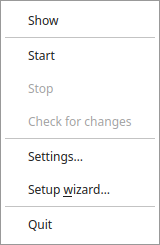
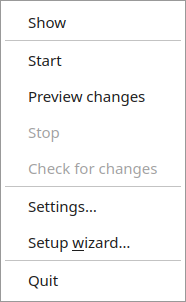
feat(ui): separate preview changes from the in-sync check
Two plan paths share the main window and nothing explained the difference:
the action-bar check compares inside a running sync (the client cannot plan
without a session) and is greyed out with the engine stopped, while Preview
changes ran a dry-run from a stopped app with no shortcut, no tooltip and the
same "Sync Preview" title a Start confirmation showed.

Preview changes now owns Ctrl+Shift+P and tip.preview_changes, repeated in the
Sync menu and the tray, and both menus show tooltips (QMenu hides them by
default). The check tooltip points at Preview changes while the engine is
stopped and keeps the short waiting text while a run is starting, so it never
advertises a greyed-out entry. The plan dialog picks its title by intent:
preview_summary.title_plan when the run will apply, preview_summary.title for
a preview or Simulation Mode.

Drops the unused preview.title key, adds three keys to the eleven locales,
retakes the stale tray screenshot and documents the session-bound check in the
user guide and the wiki. Guarded by test_main_window.py,
test_preview_summary_dialog.py, test_system_tray.py and test_locales.py.

Changed region(s): [[0.0312, 0.2857, 0.9688, 0.9714], [0.0312, 0.0571, 0.9688, 0.2571]]

diff --git a/hsync_desktop/main_window/ui.py b/hsync_desktop/main_window/ui.py
@@ -371,6 +371,11 @@ class UiBuildMixin:
             self._act_preview_changes.setText(tr("menu.sync.preview"))
             self._act_stop.setText(tr("menu.sync.stop"))
             self._act_check_changes.setText(tr("menu.sync.check_changes"))
+            # The menu shows these, so a language change must re-translate them
+            # like the labels above.
+            self._act_start.setToolTip(tr("tip.start"))
+            self._act_preview_changes.setToolTip(tr("tip.preview_changes"))
+            self._act_check_changes.setToolTip(tr("tip.check_changes"))
             self._menu_direction.setTitle(tr("menu.sync.direction"))
             self._act_dir_bidi.setText(tr("menu.sync.direction.bidirectional"))
             self._act_dir_upload.setText(tr("menu.sync.direction.upload_only"))
@@ -463,13 +468,20 @@ class UiBuildMixin:
 
         # ── Sync menu ─────────────────────────────────────────────────
         self._menu_sync = menubar.addMenu(tr("menu.sync"))
+        # Only Start, Preview changes and Check for changes carry a tooltip; a menu
+        # shows them only when asked (QMenu defaults to off), and those labels
+        # alone do not explain when an action can be used or what it will not do.
+        self._menu_sync.setToolTipsVisible(True)
 
         self._act_start = QAction(tr("menu.sync.start"), self)
         self._act_start.setShortcut("Ctrl+Shift+S")
+        self._act_start.setToolTip(tr("tip.start"))
         self._act_start.triggered.connect(self._on_start)
         self._menu_sync.addAction(self._act_start)
 
         self._act_preview_changes = QAction(tr("menu.sync.preview"), self)
+        self._act_preview_changes.setShortcut("Ctrl+Shift+P")
+        self._act_preview_changes.setToolTip(tr("tip.preview_changes"))
         self._act_preview_changes.triggered.connect(self._on_preview_changes)
         self._menu_sync.addAction(self._act_preview_changes)
 
@@ -480,6 +492,7 @@ class UiBuildMixin:
 
         self._act_check_changes = QAction(tr("menu.sync.check_changes"), self)
         self._act_check_changes.setShortcut("F5")
+        self._act_check_changes.setToolTip(tr("tip.check_changes"))
         self._act_check_changes.setEnabled(False)
         self._act_check_changes.triggered.connect(self._on_check_changes)
         self._menu_sync.addAction(self._act_check_changes)
@@ -693,7 +706,9 @@ class UiBuildMixin:
         text: it says why the action is off when it is (a comparison running or
         Simulation Mode), why a click cannot compare yet (no link) and when the
         folder was last compared — the app also checks on its own on every
-        connect, so the recency is what most often saves the click.
+        connect, so the recency is what most often saves the click. While the app
+        is stopped with no link it also names the action that *does* show a plan,
+        so a user who only wants to look is not left starting a sync.
         """
         button = getattr(self, "_btn_check_changes", None)
         if button is None:
@@ -705,7 +720,14 @@ class UiBuildMixin:
             button.setToolTip(tr("simulation.tip"))
             return
         if not self._connected:
-            button.setToolTip(tr("tip.check_changes_waiting"))
+            tooltip = tr("tip.check_changes_waiting")
+            if not self._engine.is_running:
+                # Stopped: this is the state where a user looks for a plan and
+                # the check cannot produce one. Point at the action that can;
+                # while a run is starting, that action is disabled, so the hint
+                # would advertise something the menu greys out.
+                tooltip = f"{tooltip} {tr('tip.check_changes_preview_hint')}"
+            button.setToolTip(tooltip)
             return
         tooltip = tr("tip.check_changes")
         if self._last_check_at is not None:

diff --git a/hsync_desktop/locales/ru.py b/hsync_desktop/locales/ru.py
@@ -330,6 +330,8 @@ translations: dict[str, str] = {
     "tip.check_changes": "Сравнивает папку с другими устройствами: показывает ожидающие изменения и обновляет список файлов и состояние синхронизации (F5).",
     "tip.check_changes_waiting": "Проверка запускается автоматически, когда синхронизация работает и устройство доступно. Нажмите F5, чтобы узнать, чего не хватает.",
     "tip.check_changes_last": "Последняя проверка: {time}",
+    "tip.preview_changes": "Запускает синхронизацию в режиме предпросмотра: показывается план, и ничего не применяется, пока вы не выберете «Синхронизировать сейчас». Доступно, когда синхронизация не запущена.",
+    "tip.check_changes_preview_hint": "Чтобы увидеть план до запуска синхронизации, выберите «Синхронизация → Предпросмотр изменений».",
     "tip.sync_state": "Показывает, совпадает ли общая папка с другими устройствами: нечего сравнивать, идёт проверка, всё синхронизировано или изменения, которые ещё нужно передать. При нескольких устройствах состояние берётся у самого отстающего, а строки ниже показывают ожидающие изменения каждого из них.",
     "tip.api_key": "Ключ API для аутентификации на сервере",
     "tip.insecure": "Не проверять сертификат сервера (менее безопасно).",
@@ -466,7 +468,6 @@ translations: dict[str, str] = {
     "notif.conflict_resolved_title": "Конфликт файлов разрешён",
     "notif.conflict_resolved_msg": "{file} был изменён с обеих сторон. Удалённая версия сохранена; ваша локальная версия сохранена как {conflict_copy}.",
     # Preview
-    "preview.title": "Предпросмотр синхронизации",
     "preview.no_actions": "Нет действий для выполнения — всё синхронизировано.",
     "check_changes.no_devices": "Другие устройства недоступны, поэтому сравнивать пока нечего. Проверка запустится автоматически, когда устройство подключится.",
     "preview.simulation_no_changes": "Режим симуляции: изменения не применены. Отключите его в «Настройки → Синхронизация», чтобы выполнить по-настоящему.",
@@ -478,6 +479,7 @@ translations: dict[str, str] = {
     "disclaimer.dont_show": "Больше не показывать это сообщение",
     # Preview Summary Dialog
     "preview_summary.title": "Предпросмотр синхронизации",
+    "preview_summary.title_plan": "План синхронизации",
     "preview_summary.summary_changes": "Изменения: {count}",
     "preview_summary.context_scope": "Область: {path}",
     "preview_summary.estimate": "≈ {time} при {rate}/с",

diff --git a/tests/test_main_window.py b/tests/test_main_window.py
@@ -2174,6 +2174,17 @@ class TestPreviewChanges:
 
         assert texts.index(tr("menu.sync.preview")) == texts.index(tr("menu.sync.start")) + 1
 
+    def test_the_action_carries_a_shortcut_and_a_tooltip(self, window):
+        """The menu names the action; the tooltip says what it will not do.
+
+        Without it "Preview changes" sits one row below "Start" with no visible
+        difference, and the dialog it opens looks like the one a Start shows.
+        QMenu hides tooltips by default, so the menu has to ask for them.
+        """
+        assert window._act_preview_changes.shortcut().toString() == "Ctrl+Shift+P"
+        assert window._act_preview_changes.toolTip() == tr("tip.preview_changes")
+        assert window._menu_sync.toolTipsVisible()
+
     def test_it_starts_the_dry_run_with_the_preview_intent(self, window, monkeypatch, tmp_path):
         _stop_the_deferred_timer(monkeypatch)
         monkeypatch.setattr(window, "_show_disclaimer", lambda **_: True)
@@ -3593,12 +3604,34 @@ class TestCheckChangesAction:
         assert window._last_check_at is None
 
     def test_the_button_is_icon_only_with_an_explanatory_tooltip(self, window):
-        """The action bar shows no text, so the tooltip has to explain the action."""
+        """The action-bar button is icon-only, so the tooltip has to explain the action."""
         assert window._btn_check_changes.text() == ""
         assert not window._btn_check_changes.icon().isNull()
-        # Idle: the tooltip says when the check can run, and names the shortcut.
-        assert window._btn_check_changes.toolTip() == tr("tip.check_changes_waiting")
-        assert "F5" in window._btn_check_changes.toolTip()
+        # Idle: the tooltip says when the check can run, names the shortcut and
+        # points at the action that shows a plan while the app is stopped.
+        tooltip = window._btn_check_changes.toolTip()
+        assert tooltip.startswith(tr("tip.check_changes_waiting"))
+        assert tr("tip.check_changes_preview_hint") in tooltip
+        assert "F5" in tooltip
+
+    def test_the_waiting_hint_stays_out_of_the_click_toast(self, window):
+        """The pointer belongs to the tooltip: a toast must stay a short message."""
+        window._connected = False
+
+        with self._running_engine(window):
+            window._on_check_changes()
+
+        assert window._info_banner_label.text() == tr("tip.check_changes_waiting")
+
+    def test_the_stopped_hint_is_not_offered_while_a_run_starts(self, window):
+        """While starting, Preview changes is greyed out: do not advertise it."""
+        window._connected = False
+
+        with self._running_engine(window):
+            window._update_check_changes_tooltip()
+
+            tooltip = window._btn_check_changes.toolTip()
+            assert tr("tip.check_changes_preview_hint") not in tooltip
 
 
 class TestStoppingFeedback:

diff --git a/hsync_desktop/locales/ja.py b/hsync_desktop/locales/ja.py
@@ -330,6 +330,8 @@ translations: dict[str, str] = {
     "tip.check_changes": "フォルダーを他のデバイスと比較し、保留中の変更を一覧表示して、ファイル一覧と同期状態を更新します（F5）。",
     "tip.check_changes_waiting": "同期が実行中でデバイスに接続できると、自動でチェックします。F5 で不足している内容を確認できます。",
     "tip.check_changes_last": "最終チェック: {time}",
+    "tip.preview_changes": "同期をプレビューとして実行します。プランを表示し、「今すぐ同期」を選ぶまで何も適用しません。同期が停止しているときのみ利用できます。",
+    "tip.check_changes_preview_hint": "同期を開始する前にプランを確認するには、「同期 → 変更をプレビュー」を使用します。",
     "tip.sync_state": "共有フォルダーが他のデバイスと一致しているかを示します。比較対象なし、確認中、すべて同期済み、または未転送の変更です。複数のデバイスがある場合、状態は最も遅れているデバイスのものとなり、以下の行に各デバイスの保留中の変更が表示されます。",
     "tip.api_key": "サーバー認証用の API キー",
     "tip.insecure": "サーバー証明書を検証しません（安全性が低下）。",
@@ -466,7 +468,6 @@ translations: dict[str, str] = {
     "notif.conflict_resolved_title": "ファイルの競合を解決しました",
     "notif.conflict_resolved_msg": "{file} が両側で変更されました。リモートバージョンが保持され、ローカルバージョンは {conflict_copy} として保存されました。",
     # Preview
-    "preview.title": "同期プレビュー",
     "preview.no_actions": "実行する操作はありません — すべて同期済みです。",
     "check_changes.no_devices": "接続できる他のデバイスがないため、まだ比較する内容はありません。デバイスが参加すると自動でチェックします。",
     "preview.simulation_no_changes": "シミュレーションモード：変更は適用されていません。実際に実行するには「設定 → 同期」でオフにしてください。",
@@ -478,6 +479,7 @@ translations: dict[str, str] = {
     "disclaimer.dont_show": "このメッセージを今後表示しない",
     # Preview Summary Dialog
     "preview_summary.title": "同期プレビュー",
+    "preview_summary.title_plan": "同期プラン",
     "preview_summary.summary_changes": "変更: {count}",
     "preview_summary.context_scope": "対象: {path}",
     "preview_summary.estimate": "≈ {time}（{rate}/s）",

diff --git a/hsync_desktop/locales/fr.py b/hsync_desktop/locales/fr.py
@@ -382,7 +382,6 @@ translations: dict[str, str] = {
     "notif.security_rejected_msg": "Un chemin distant non sécurisé a été refusé : {path}",
     "notif.conflict_resolved_title": "Conflit de Fichier Résolu",
     "notif.conflict_resolved_msg": "{file} a été modifié des deux côtés. La version distante a été conservée ; votre version locale a été sauvegardée sous {conflict_copy}.",
-    "preview.title": "Aperçu de la synchronisation",
     "preview.no_actions": "Aucune action à effectuer — tout est synchronisé.",
     "check_changes.no_devices": "Aucun autre appareil n'est joignable, il n'y a donc encore rien à comparer. La vérification démarre automatiquement dès qu'un appareil rejoint le groupe.",
     "preview.simulation_no_changes": "Simulation : aucune modification appliquée. Désactivez-la dans Paramètres → Synchronisation pour exécuter réellement.",
@@ -391,6 +390,8 @@ translations: dict[str, str] = {
     "tip.check_changes": "Compare le dossier avec les autres appareils : liste les modifications en attente et met à jour la liste des fichiers et l'état de synchronisation (F5).",
     "tip.check_changes_waiting": "La vérification démarre automatiquement dès que la synchronisation est active et qu'un appareil est joignable. Appuyez sur F5 pour savoir ce qui manque.",
     "tip.check_changes_last": "Dernière vérification : {time}",
+    "tip.preview_changes": "Lance une synchronisation en aperçu : le plan s'affiche et rien n'est appliqué tant que vous ne choisissez pas « Synchroniser maintenant ». Disponible quand aucune synchronisation n'est en cours.",
+    "tip.check_changes_preview_hint": "Pour voir le plan avant de démarrer une synchronisation, utilisez Synchronisation → Aperçu des modifications.",
     "tip.sync_state": "Indique si le dossier partagé correspond aux autres appareils : rien à comparer, vérification en cours, tout est synchronisé ou les modifications restant à transférer. Avec plusieurs appareils, l'état est celui de l'appareil le plus en retard et les lignes ci-dessous listent les modifications en attente de chacun.",
     "tip.api_key": "Clé API pour l'authentification auprès du serveur",
     "tip.insecure": "Ne pas vérifier le certificat du serveur (moins sûr).",
@@ -456,6 +457,7 @@ translations: dict[str, str] = {
     "disclaimer.not_now": "Pas maintenant",
     "disclaimer.dont_show": "Ne plus afficher ce message",
     "preview_summary.title": "Aperçu de synchronisation",
+    "preview_summary.title_plan": "Plan de synchronisation",
     "preview_summary.summary_changes": "Modifications : {count}",
     "preview_summary.context_scope": "Portée : {path}",
     "preview_summary.estimate": "≈ {time} à {rate}/s",

diff --git a/hsync_desktop/locales/de.py b/hsync_desktop/locales/de.py
@@ -382,7 +382,6 @@ translations: dict[str, str] = {
     "notif.security_rejected_msg": "Ein unsicherer Remote-Pfad wurde abgelehnt: {path}",
     "notif.conflict_resolved_title": "Dateikonflikt gelöst",
     "notif.conflict_resolved_msg": "{file} wurde auf beiden Seiten geändert. Die Remote-Version wurde beibehalten; Ihre lokale Version wurde als {conflict_copy} gespeichert.",
-    "preview.title": "Synchronisationsvorschau",
     "preview.no_actions": "Keine Aktionen erforderlich — alles ist synchronisiert.",
     "check_changes.no_devices": "Kein anderes Gerät ist erreichbar, es gibt also noch nichts zu vergleichen. Die Prüfung startet automatisch, sobald eines beitritt.",
     "preview.simulation_no_changes": "Testlauf: Es wurde nichts übernommen. Deaktivieren Sie ihn unter Einstellungen → Synchronisation, um wirklich zu synchronisieren.",
@@ -391,6 +390,8 @@ translations: dict[str, str] = {
     "tip.check_changes": "Vergleicht den Ordner mit den anderen Geräten: listet die noch ausstehenden Änderungen und aktualisiert Dateiliste und Synchronisierungsstatus (F5).",
     "tip.check_changes_waiting": "Die Prüfung startet automatisch, sobald die Synchronisierung läuft und ein Gerät erreichbar ist. Mit F5 erfahren Sie, was noch fehlt.",
     "tip.check_changes_last": "Letzte Prüfung: {time}",
+    "tip.preview_changes": "Führt eine Synchronisierung als Vorschau aus: Der Plan wird angezeigt, und nichts wird angewendet, solange Sie nicht „Jetzt synchronisieren“ wählen. Verfügbar, solange keine Synchronisierung läuft.",
+    "tip.check_changes_preview_hint": "Um den Plan vor dem Start einer Synchronisierung zu sehen, verwenden Sie Synchronisation → Vorschau der Änderungen.",
     "tip.sync_state": "Zeigt, ob der freigegebene Ordner mit den anderen Geräten übereinstimmt: kein Gerät zum Vergleichen, Prüfung läuft, alles synchron oder die noch zu übertragenden Änderungen. Bei mehreren Geräten gilt das am weitesten zurückliegende, und die Zeilen darunter listen die offenen Änderungen je Gerät.",
     "tip.api_key": "API-Schlüssel zur Authentifizierung beim Server",
     "tip.insecure": "Das Serverzertifikat nicht prüfen (weniger sicher).",
@@ -456,6 +457,7 @@ translations: dict[str, str] = {
     "disclaimer.not_now": "Nicht jetzt",
     "disclaimer.dont_show": "Diese Meldung nicht mehr anzeigen",
     "preview_summary.title": "Sync-Vorschau",
+    "preview_summary.title_plan": "Synchronisationsplan",
     "preview_summary.summary_changes": "Änderungen: {count}",
     "preview_summary.context_scope": "Bereich: {path}",
     "preview_summary.estimate": "≈ {time} bei {rate}/s",

diff --git a/hsync_desktop/locales/it.py b/hsync_desktop/locales/it.py
@@ -382,7 +382,6 @@ translations: dict[str, str] = {
     "notif.security_rejected_msg": "Un percorso remoto non sicuro è stato rifiutato: {path}",
     "notif.conflict_resolved_title": "Conflitto di File Risolto",
     "notif.conflict_resolved_msg": "{file} è stato modificato su entrambi i lati. La versione remota è stata mantenuta; la tua versione locale è stata salvata come {conflict_copy}.",
-    "preview.title": "Anteprima sincronizzazione",
     "preview.no_actions": "Nessuna azione da eseguire — tutto è sincronizzato.",
     "check_changes.no_devices": "Nessun altro dispositivo è raggiungibile, quindi non c'è ancora nulla da confrontare. Il controllo parte da solo quando se ne aggiunge uno.",
     "preview.simulation_no_changes": "Esecuzione simulata: nessuna modifica applicata. Disattivala in Impostazioni → Sincronizzazione per eseguire davvero.",
@@ -391,6 +390,8 @@ translations: dict[str, str] = {
     "tip.check_changes": "Confronta la cartella con gli altri dispositivi: elenca le modifiche ancora in sospeso e aggiorna l'elenco dei file e lo stato della sincronizzazione (F5).",
     "tip.check_changes_waiting": "Il controllo parte automaticamente quando la sincronizzazione è attiva e un dispositivo è raggiungibile. Premi F5 per sapere cosa manca.",
     "tip.check_changes_last": "Ultimo controllo: {time}",
+    "tip.preview_changes": "Esegue una sincronizzazione in anteprima: mostra il piano e non applica nulla finché non scegli Sincronizza ora. Disponibile a sincronizzazione ferma.",
+    "tip.check_changes_preview_hint": "Per vedere il piano prima di avviare una sincronizzazione, usa Sincronizzazione → Anteprima modifiche.",
     "tip.sync_state": "Indica se la cartella condivisa è allineata agli altri dispositivi: nessun dispositivo da confrontare, verifica in corso, tutto sincronizzato, oppure le modifiche ancora da trasferire. Con più dispositivi lo stato è quello del dispositivo più indietro e le righe sotto elencano le modifiche in sospeso di ciascuno.",
     "tip.api_key": "Chiave API per l'autenticazione con il server",
     "tip.insecure": "Non verificare il certificato del server (meno sicuro).",
@@ -456,6 +457,7 @@ translations: dict[str, str] = {
     "disclaimer.not_now": "Non ora",
     "disclaimer.dont_show": "Non mostrare più questo messaggio",
     "preview_summary.title": "Anteprima Sincronizzazione",
+    "preview_summary.title_plan": "Piano di sincronizzazione",
     "preview_summary.summary_changes": "Modifiche: {count}",
     "preview_summary.context_scope": "Ambito: {path}",
     "preview_summary.estimate": "≈ {time} a {rate}/s",

diff --git a/hsync_desktop/locales/es.py b/hsync_desktop/locales/es.py
@@ -382,7 +382,6 @@ translations: dict[str, str] = {
     "notif.security_rejected_msg": "Se rechazó una ruta remota no segura: {path}",
     "notif.conflict_resolved_title": "Conflicto de Archivo Resuelto",
     "notif.conflict_resolved_msg": "{file} fue modificado en ambos lados. Se mantuvo la versión remota; su versión local se guardó como {conflict_copy}.",
-    "preview.title": "Vista previa de sincronización",
     "preview.no_actions": "No hay acciones a realizar — todo está sincronizado.",
     "check_changes.no_devices": "No hay ningún otro dispositivo accesible, así que todavía no hay nada que comparar. La comprobación se ejecuta automáticamente cuando se une uno.",
     "preview.simulation_no_changes": "Modo simulación: no se aplicó ningún cambio. Desactívalo en Ajustes → Sincronización para ejecutar de verdad.",
@@ -391,6 +390,8 @@ translations: dict[str, str] = {
     "tip.check_changes": "Compara la carpeta con los demás dispositivos: muestra los cambios pendientes y actualiza la lista de archivos y el estado de sincronización (F5).",
     "tip.check_changes_waiting": "La comprobación empieza automáticamente cuando la sincronización está activa y hay un dispositivo accesible. Pulsa F5 para saber qué falta.",
     "tip.check_changes_last": "Última comprobación: {time}",
+    "tip.preview_changes": "Ejecuta una sincronización en vista previa: se muestra el plan y no se aplica nada salvo que elijas Sincronizar ahora. Disponible cuando no hay ninguna sincronización en curso.",
+    "tip.check_changes_preview_hint": "Para ver el plan antes de iniciar una sincronización, usa Sincronización → Vista previa de cambios.",
     "tip.sync_state": "Indica si la carpeta compartida coincide con los demás dispositivos: nada que comparar, comprobando, todo sincronizado o los cambios pendientes de transferir. Con varios dispositivos, el estado es el del dispositivo más atrasado y las líneas siguientes muestran los cambios pendientes de cada uno.",
     "tip.api_key": "Clave API para autenticación con el servidor",
     "tip.insecure": "No verificar el certificado del servidor (menos seguro).",
@@ -456,6 +457,7 @@ translations: dict[str, str] = {
     "disclaimer.not_now": "Ahora no",
     "disclaimer.dont_show": "No mostrar este mensaje de nuevo",
     "preview_summary.title": "Vista previa de sincronización",
+    "preview_summary.title_plan": "Plan de sincronización",
     "preview_summary.summary_changes": "Cambios: {count}",
     "preview_summary.context_scope": "Ámbito: {path}",
     "preview_summary.estimate": "≈ {time} a {rate}/s",

diff --git a/hsync_desktop/locales/pt.py b/hsync_desktop/locales/pt.py
@@ -330,6 +330,8 @@ translations: dict[str, str] = {
     "tip.check_changes": "Compara a pasta com os outros dispositivos: mostra as alterações pendentes e atualiza a lista de ficheiros e o estado da sincronização (F5).",
     "tip.check_changes_waiting": "A verificação começa automaticamente quando a sincronização está ativa e há um dispositivo acessível. Prima F5 para saber o que falta.",
     "tip.check_changes_last": "Última verificação: {time}",
+    "tip.preview_changes": "Executa uma sincronização em pré-visualização: o plano é mostrado e nada é aplicado até escolher Sincronizar agora. Disponível quando não há sincronização em curso.",
+    "tip.check_changes_preview_hint": "Para ver o plano antes de iniciar uma sincronização, use Sincronização → Pré-visualizar alterações.",
     "tip.sync_state": "Indica se a pasta partilhada corresponde aos outros dispositivos: nada a comparar, a verificar, tudo sincronizado ou as alterações ainda por transferir. Com vários dispositivos, o estado é o do dispositivo mais atrasado e as linhas abaixo listam as alterações pendentes de cada um.",
     "tip.api_key": "Chave de API para autenticação no servidor",
     "tip.insecure": "Não verificar o certificado do servidor (menos seguro).",
@@ -466,7 +468,6 @@ translations: dict[str, str] = {
     "notif.conflict_resolved_title": "Conflito de arquivo resolvido",
     "notif.conflict_resolved_msg": "{file} foi modificado nos dois lados. A versão remota foi mantida; sua versão local foi salva como {conflict_copy}.",
     # Preview
-    "preview.title": "Pré-visualização da sincronização",
     "preview.no_actions": "Nenhuma ação a executar — tudo está sincronizado.",
     "check_changes.no_devices": "Não há outro dispositivo acessível, por isso ainda não há nada para comparar. A verificação é executada automaticamente quando um se junta.",
     "preview.simulation_no_changes": "Modo de simulação: nada foi aplicado. Desative-o em Configurações → Sincronização para executar de verdade.",
@@ -478,6 +479,7 @@ translations: dict[str, str] = {
     "disclaimer.dont_show": "Não mostrar esta mensagem novamente",
     # Preview Summary Dialog
     "preview_summary.title": "Pré-visualização da sincronização",
+    "preview_summary.title_plan": "Plano de sincronização",
     "preview_summary.summary_changes": "Alterações: {count}",
     "preview_summary.context_scope": "Âmbito: {path}",
     "preview_summary.estimate": "≈ {time} a {rate}/s",

diff --git a/hsync_desktop/locales/pl.py b/hsync_desktop/locales/pl.py
@@ -330,6 +330,8 @@ translations: dict[str, str] = {
     "tip.check_changes": "Porównuje folder z innymi urządzeniami: pokazuje oczekujące zmiany i odświeża listę plików oraz stan synchronizacji (F5).",
     "tip.check_changes_waiting": "Sprawdzanie rozpoczyna się automatycznie, gdy synchronizacja działa i urządzenie jest osiągalne. Naciśnij F5, aby zobaczyć, czego brakuje.",
     "tip.check_changes_last": "Ostatnie sprawdzenie: {time}",
+    "tip.preview_changes": "Uruchamia synchronizację w podglądzie: plan jest wyświetlany, a nic nie zostaje zastosowane, dopóki nie wybierzesz „Synchronizuj teraz”. Dostępne, gdy synchronizacja nie działa.",
+    "tip.check_changes_preview_hint": "Aby zobaczyć plan przed rozpoczęciem synchronizacji, użyj Synchronizacja → Podgląd zmian.",
     "tip.sync_state": "Wskazuje, czy udostępniony folder jest zgodny z innymi urządzeniami: brak urządzenia do porównania, sprawdzanie, wszystko zsynchronizowane albo zmiany do przesłania. Przy wielu urządzeniach stan dotyczy urządzenia najbardziej opóźnionego, a poniższe wiersze pokazują oczekujące zmiany każdego z nich.",
     "tip.api_key": "Klucz API do uwierzytelniania na serwerze",
     "tip.insecure": "Nie weryfikuj certyfikatu serwera (mniej bezpieczne).",
@@ -466,7 +468,6 @@ translations: dict[str, str] = {
     "notif.conflict_resolved_title": "Konflikt plików rozwiązany",
     "notif.conflict_resolved_msg": "{file} został zmodyfikowany po obu stronach. Zachowano wersję zdalną; Twoja wersja lokalna została zapisana jako {conflict_copy}.",
     # Preview
-    "preview.title": "Podgląd synchronizacji",
     "preview.no_actions": "Brak działań do wykonania — wszystko jest zsynchronizowane.",
     "check_changes.no_devices": "Żadne inne urządzenie nie jest osiągalne, więc nie ma jeszcze czego porównywać. Sprawdzanie uruchomi się automatycznie, gdy dołączy urządzenie.",
     "preview.simulation_no_changes": "Tryb symulacji: nie zastosowano żadnych zmian. Wyłącz go w Ustawienia → Synchronizacja, aby wykonać naprawdę.",
@@ -478,6 +479,7 @@ translations: dict[str, str] = {
     "disclaimer.dont_show": "Nie pokazuj ponownie tego komunikatu",
     # Preview Summary Dialog
     "preview_summary.title": "Podgląd synchronizacji",
+    "preview_summary.title_plan": "Plan synchronizacji",
     "preview_summary.summary_changes": "Zmiany: {count}",
     "preview_summary.context_scope": "Zakres: {path}",
     "preview_summary.estimate": "≈ {time} przy {rate}/s",

diff --git a/hsync_desktop/locales/nl.py b/hsync_desktop/locales/nl.py
@@ -330,6 +330,8 @@ translations: dict[str, str] = {
     "tip.check_changes": "Vergelijkt de map met de andere apparaten: toont de nog openstaande wijzigingen en werkt de bestandenlijst en de synchronisatiestatus bij (F5).",
     "tip.check_changes_waiting": "De controle start automatisch zodra de synchronisatie loopt en een apparaat bereikbaar is. Druk op F5 om te zien wat er nog ontbreekt.",
     "tip.check_changes_last": "Laatste controle: {time}",
+    "tip.preview_changes": "Voert een synchronisatie als voorbeeld uit: het plan verschijnt en er wordt niets toegepast tot u 'Nu synchroniseren' kiest. Beschikbaar als er geen synchronisatie loopt.",
+    "tip.check_changes_preview_hint": "Gebruik Synchronisatie → Wijzigingen bekijken om het plan te zien voordat u een synchronisatie start.",
     "tip.sync_state": "Geeft aan of de gedeelde map overeenkomt met de andere apparaten: niets om te vergelijken, bezig met controleren, alles gesynchroniseerd of de nog te verzenden wijzigingen. Bij meerdere apparaten geldt het apparaat dat het verst achterloopt en de regels hieronder tonen de openstaande wijzigingen per apparaat.",
     "tip.api_key": "API-sleutel voor serverauthenticatie",
     "tip.insecure": "Het servercertificaat niet verifiëren (minder veilig).",
@@ -466,7 +468,6 @@ translations: dict[str, str] = {
     "notif.conflict_resolved_title": "Bestandsconflict opgelost",
     "notif.conflict_resolved_msg": "{file} is aan beide zijden gewijzigd. De externe versie is behouden; uw lokale versie is opgeslagen als {conflict_copy}.",
     # Preview
-    "preview.title": "Synchronisatievoorbeeld",
     "preview.no_actions": "Geen acties uit te voeren — alles is gesynchroniseerd.",
     "check_changes.no_devices": "Er is geen ander apparaat bereikbaar, dus er valt nog niets te vergelijken. De controle start automatisch zodra er een apparaat bijkomt.",
     "preview.simulation_no_changes": "Simulatiemodus: er is niets toegepast. Schakel hem uit in Instellingen → Synchronisatie om echt uit te voeren.",
@@ -478,6 +479,7 @@ translations: dict[str, str] = {
     "disclaimer.dont_show": "Dit bericht niet meer tonen",
     # Preview Summary Dialog
     "preview_summary.title": "Synchronisatievoorbeeld",
+    "preview_summary.title_plan": "Synchronisatieplan",
     "preview_summary.summary_changes": "Wijzigingen: {count}",
     "preview_summary.context_scope": "Bereik: {path}",
     "preview_summary.estimate": "≈ {time} bij {rate}/s",

diff --git a/hsync_desktop/system_tray.py b/hsync_desktop/system_tray.py
@@ -75,16 +75,21 @@ class SystemTray(QSystemTrayIcon):
 
         # Context menu
         menu = QMenu()
+        # The run entries carry a tooltip (see below); a menu shows them only
+        # when asked, and QMenu defaults to off.
+        menu.setToolTipsVisible(True)
         self._act_show = QAction(tr("tray.show"), menu)
         self._act_show.triggered.connect(self.toggle_window.emit)
         menu.addAction(self._act_show)
         menu.addSeparator()
 
         self._act_start = QAction(tr("tray.start"), menu)
+        self._act_start.setToolTip(tr("tip.start"))
         self._act_start.triggered.connect(self.start_requested.emit)
         menu.addAction(self._act_start)
 
         self._act_preview_changes = QAction(tr("tray.preview_changes"), menu)
+        self._act_preview_changes.setToolTip(tr("tip.preview_changes"))
         self._act_preview_changes.triggered.connect(self.preview_changes_requested.emit)
         menu.addAction(self._act_preview_changes)
 
@@ -94,6 +99,7 @@ class SystemTray(QSystemTrayIcon):
         menu.addAction(self._act_stop)
 
         self._act_check_changes = QAction(tr("tray.check_changes"), menu)
+        self._act_check_changes.setToolTip(tr("tip.check_changes"))
         self._act_check_changes.triggered.connect(self.check_changes_requested.emit)
         self._act_check_changes.setEnabled(False)
         menu.addAction(self._act_check_changes)
@@ -196,9 +202,12 @@ class SystemTray(QSystemTrayIcon):
         """Apply i18n translations to menu items."""
         self._act_show.setText(tr("tray.minimize") if self._window_visible else tr("tray.show"))
         self._act_start.setText(tr("tray.start"))
+        self._act_start.setToolTip(tr("tip.start"))
         self._act_preview_changes.setText(tr("tray.preview_changes"))
+        self._act_preview_changes.setToolTip(tr("tip.preview_changes"))
         self._act_stop.setText(tr("tray.stop"))
         self._act_check_changes.setText(tr("tray.check_changes"))
+        self._act_check_changes.setToolTip(tr("tip.check_changes"))
         self._act_settings.setText(tr("tray.settings"))
         self._act_setup_wizard.setText(tr("tray.setup_wizard"))
         self._act_quit.setText(tr("tray.quit"))
